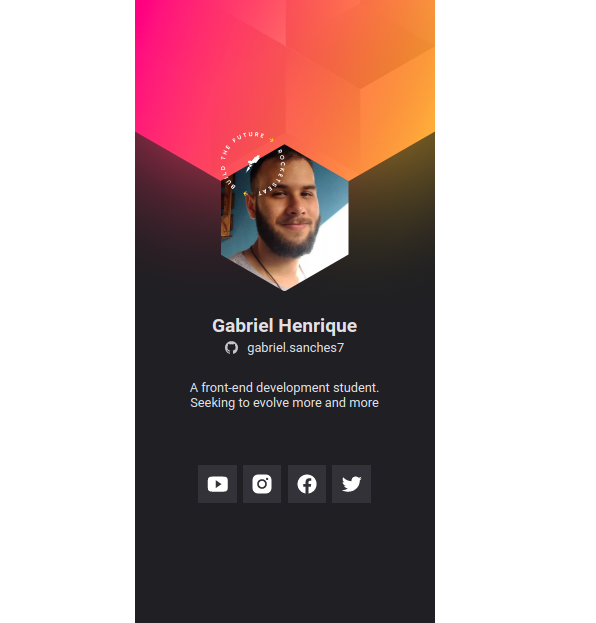
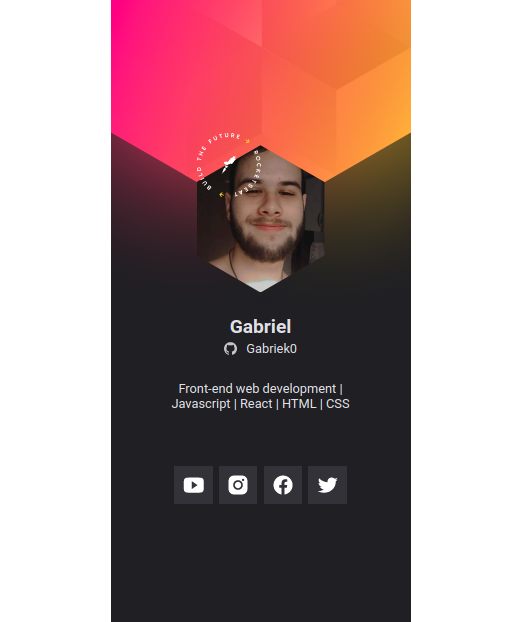
adicionando funcionalidade para obter dados do githubautomaticamente pelo js

diff --git a/index.html b/index.html
@@ -19,14 +19,14 @@
                 <span>
                     <img src="./images/selo.svg" alt="Selo-rocketseat">
                 </span>
-                <img src="./images/avatar.jpeg" alt="Logo-user">
+                <img id="userAvatar" src="" alt="Logo-user">
             </div>
-            <h1>Gabriel Henrique</h1>
-            <a href="https://github.com/Gabriek0" target="_blank">
+            <h1 id="userName"></h1>
+            <a id="userLink" href="" target="_blank">
                 <img src="./images/github.svg" alt="">
-                Gabriek0</a>
+                <span id="userLogin"></span></a>
 
-            <p>A front-end development student. Seeking to evolve more and more</p>
+            <p id="userBio">A front-end development student. Seeking to evolve more and more</p>
 
             <ul id="socialLinks">
                 <li class="youtube">

diff --git a/main.js b/main.js
@@ -14,3 +14,20 @@ function changeSocialMediaLinks() {
 };
 
 changeSocialMediaLinks()
+
+function getGithubProfileInfos() {
+    const url = `https://api.github.com/users/${linksSocialMedia.github}`
+
+    fetch(url)
+        .then(res => res.json())
+        .then(data => {
+            userName.textContent = data.name;
+            userBio.textContent = data.bio;
+            userLink.href = data.html_url
+            userAvatar.src = data.avatar_url
+            userLogin.textContent = data.login
+
+        })
+}
+
+getGithubProfileInfos()
